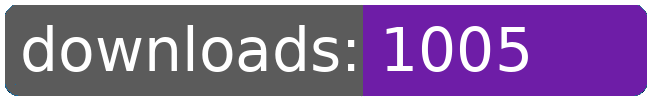
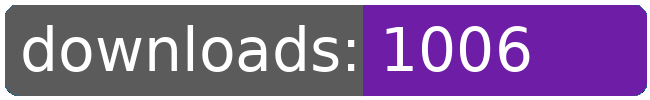
dl log written

Changed region(s): [[0.7692, 0.39, 0.8308, 0.72], [0.7692, 0.24, 0.8308, 0.36]]

diff --git a/README.md b/README.md
@@ -21,8 +21,8 @@
 		<td>932</td>
 		<td>964</td>
 		<td>994</td>
-		<td>1005</td>
-		<td>+ 11</td>
+		<td>1006</td>
+		<td>+ 12</td>
 	</tr>
 	<tr>
 		<td>aberrant.kahet.outfitter</td>
@@ -186,8 +186,8 @@
 		<td></td>
 		<td></td>
 		<td></td>
-		<td>12449</td>
-		<td>145</td>
+		<td>12450</td>
+		<td>146</td>
 	</tr>
 </table>
 </sub></sup>
@@ -245,8 +245,8 @@
 		<td>932</td>
 		<td>964</td>
 		<td>994</td>
-		<td>1005</td>
-		<td>+ 11</td>
+		<td>1006</td>
+		<td>+ 12</td>
 	</tr>
 	<tr>
 		<td>purchase.bactrian</td>
@@ -377,8 +377,8 @@
 		<td></td>
 		<td></td>
 		<td></td>
-		<td>12449</td>
-		<td>145</td>
+		<td>12450</td>
+		<td>146</td>
 	</tr>
 </table>
 </sub></sup>
